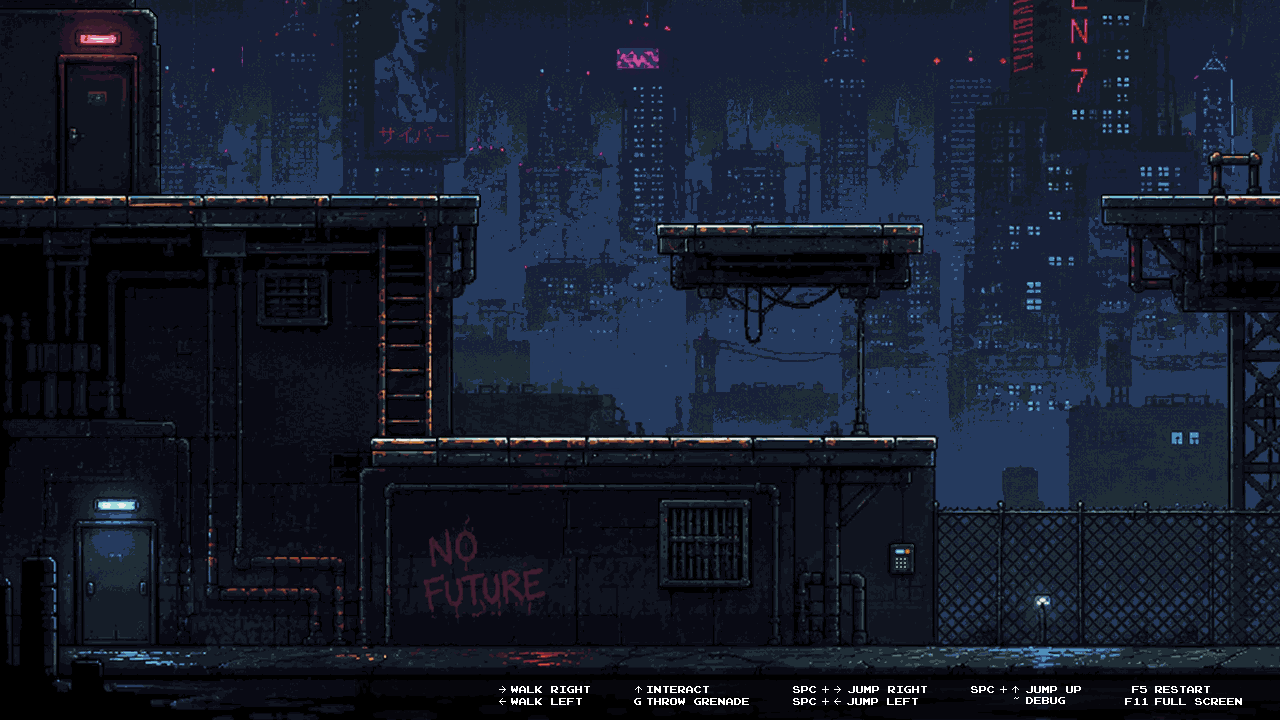
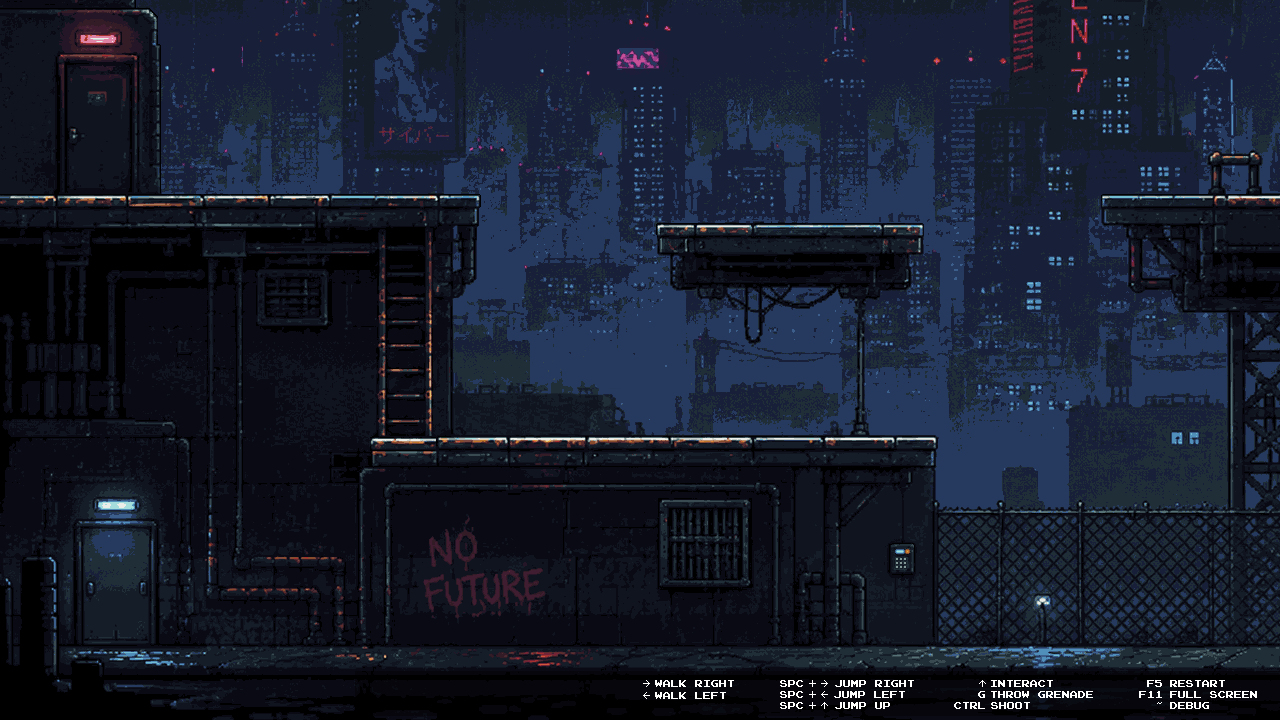
added shoot to control list and repositioned enemy 3

diff --git a/src/scenes/GameScene.ts b/src/scenes/GameScene.ts
@@ -107,7 +107,7 @@ export class GameScene {
     this.enemies.push(enemy2);
     this.container.addChild(enemy2.container);
 
-    const enemy3 = new EnemyStatic(350, groundY - 460, ENEMY_V3);
+    const enemy3 = new EnemyStatic(330, groundY - 460, ENEMY_V3);
     this.enemies.push(enemy3);
     this.container.addChild(enemy3.container);
 
